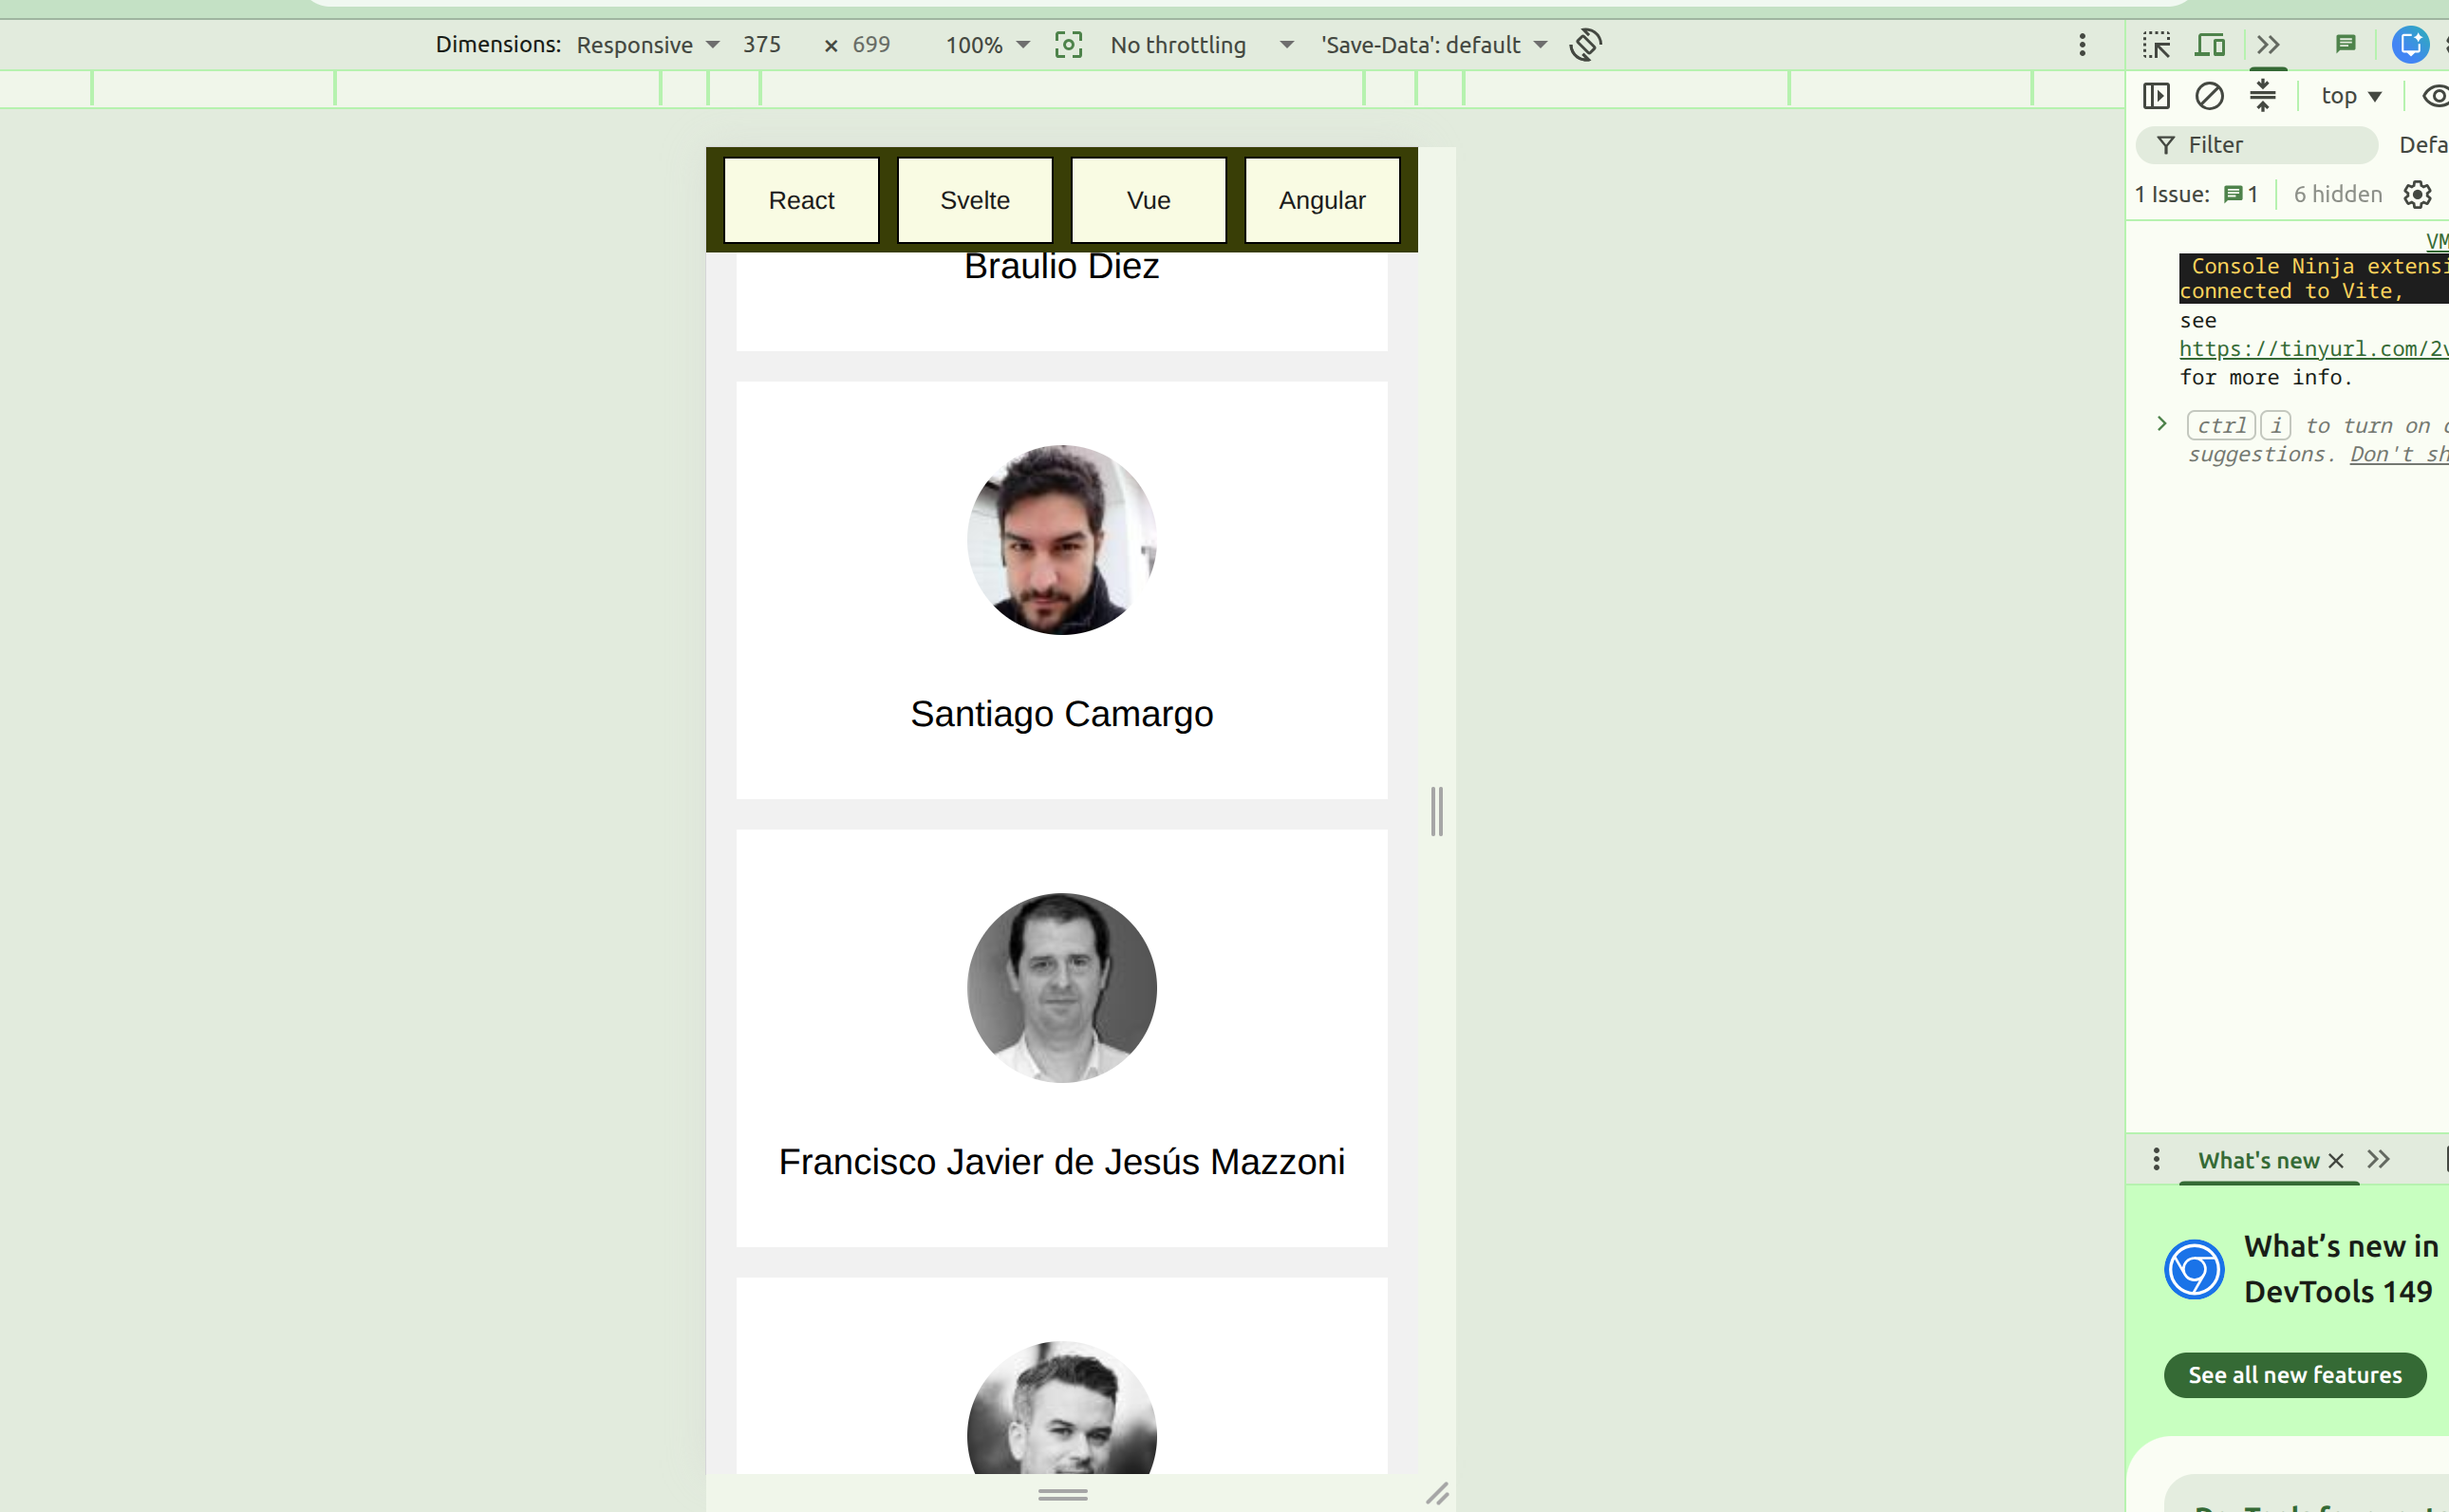
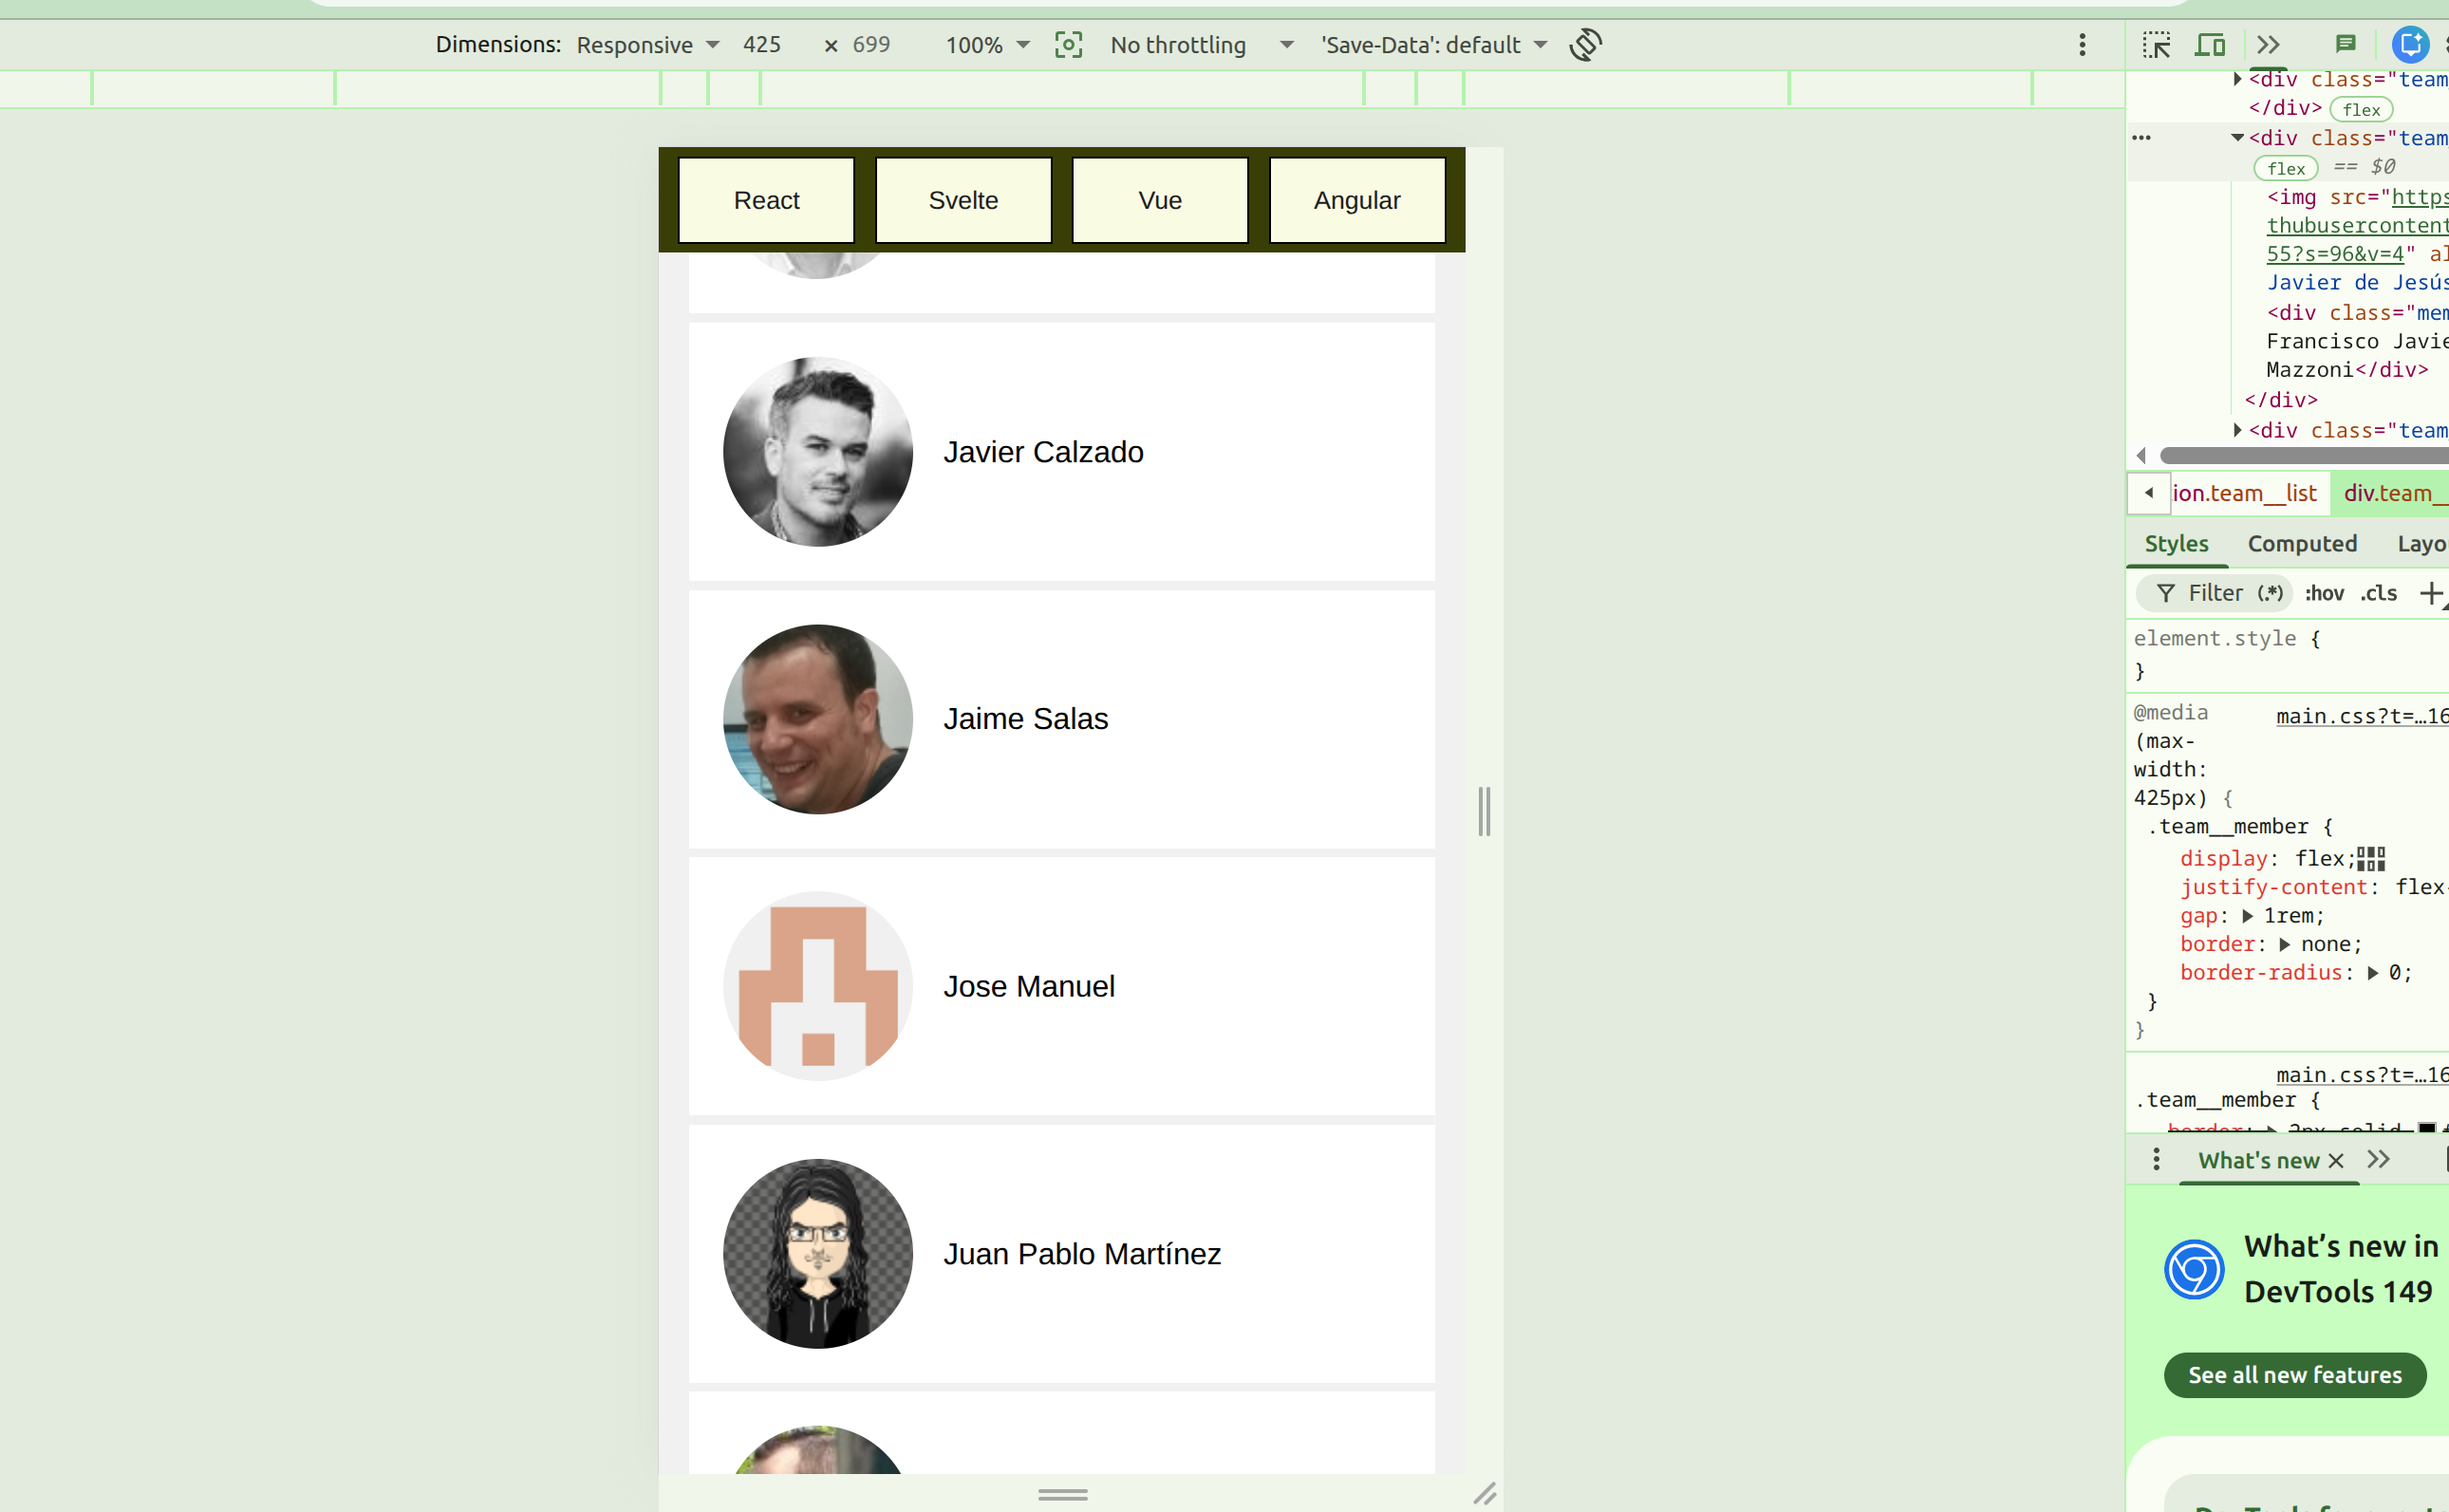
Fix(image, media.css, container.css): Update small media query and styles properly

diff --git a/Layout/Extra/src/css/layout/container.css b/Layout/Extra/src/css/layout/container.css
@@ -15,7 +15,6 @@ main {
 }
 
 .team__member {
-    min-height: 220px;
     border: 2px solid black;
     border-radius: 6px;
     display: grid;
@@ -87,12 +86,20 @@ main {
     
     .team__list {
         grid-template-columns: 1fr;
+        margin: 0;
+        gap: 0.3rem;
       
     }
 
     .team__member {
+        display: flex;
+        justify-content: flex-start;
+        gap: 1rem;
         border:none;
         border-radius: 0;
+    }
 
+    .team__member > div {
+        font-size: medium;
     }
 }

diff --git a/Layout/Extra/src/css/base/media.css b/Layout/Extra/src/css/base/media.css
@@ -1,3 +1,3 @@
 @custom-media --large-viewport (max-width: 1024px);
 @custom-media --medium-viewport (max-width: 768px);
-@custom-media --small-viewport (max-width: 375px);
+@custom-media --small-viewport (max-width: 425px);
